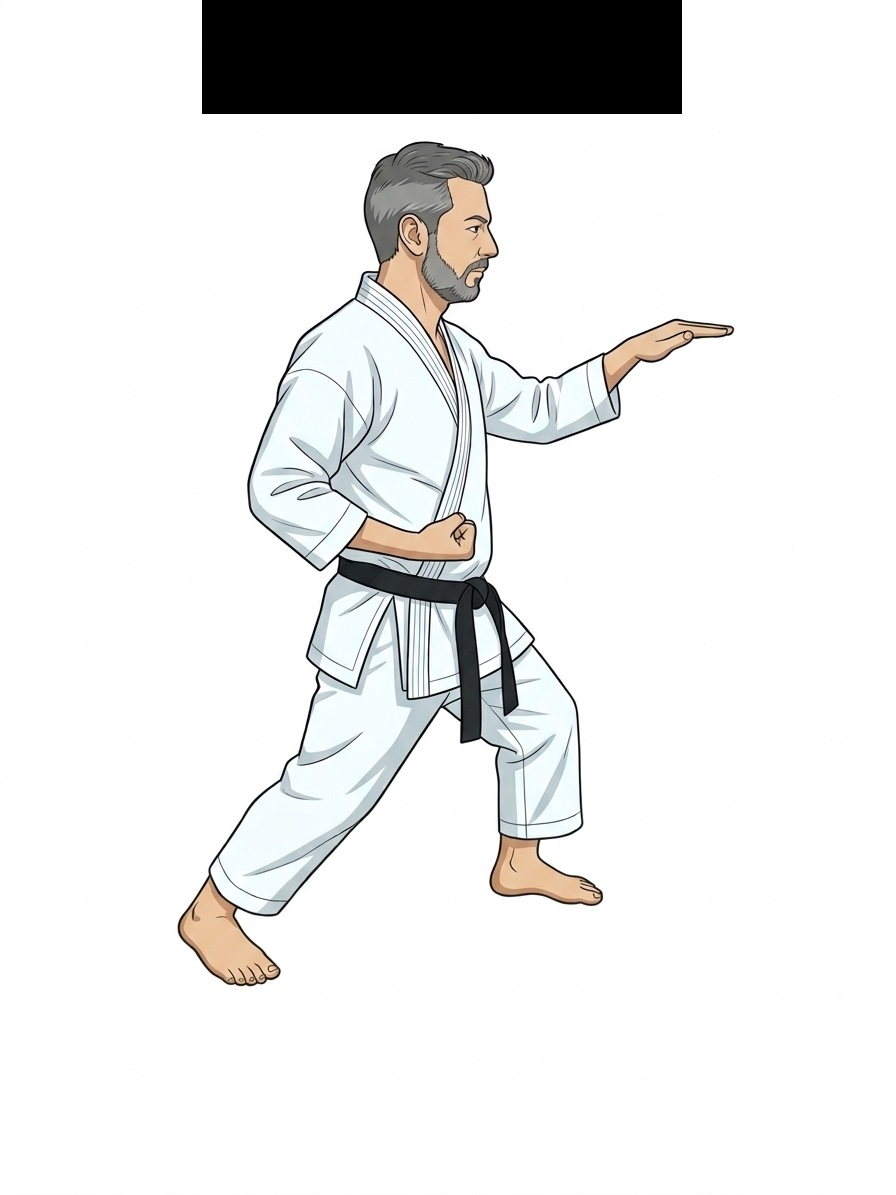
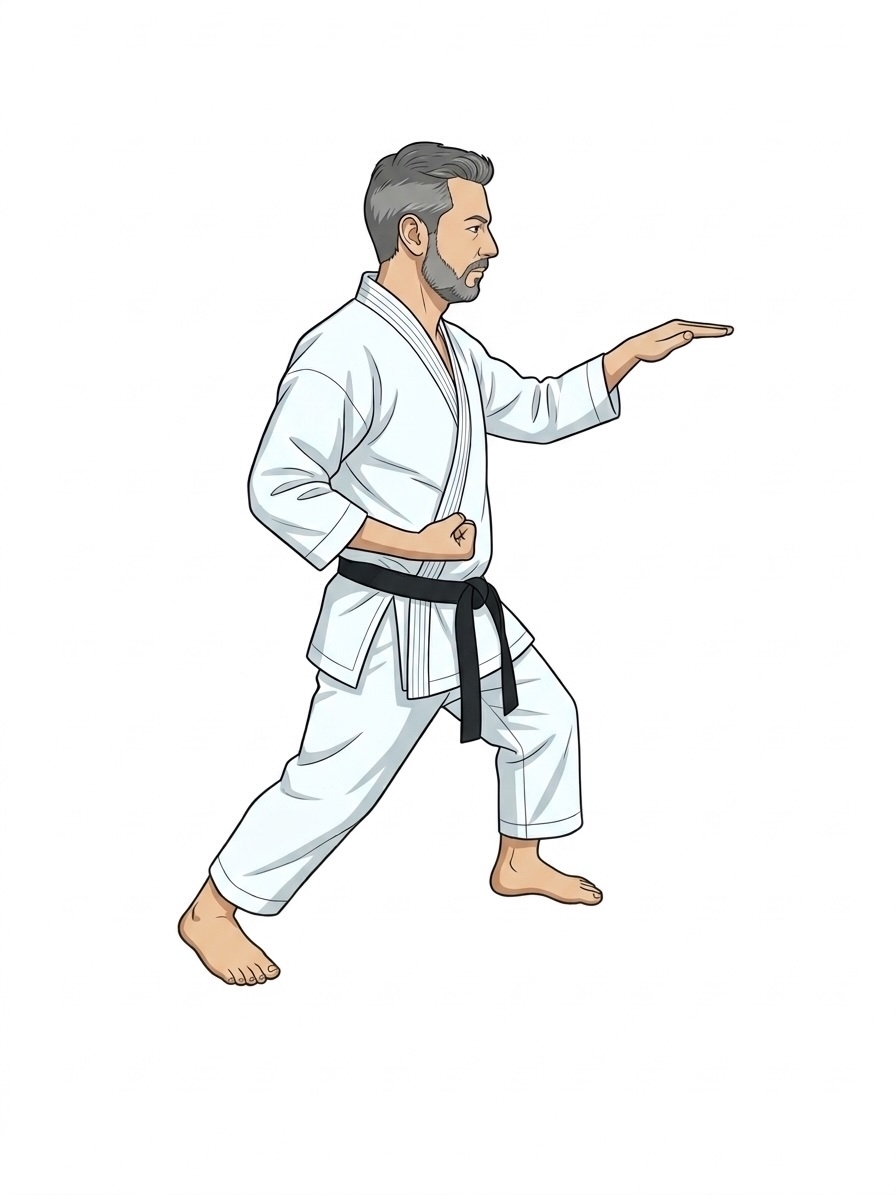
Update kata movements descriptions and trajectories for clarity and accuracy; replace illustrations for KATA_UDE_UKE and KATA_MAWASHI_UDE_UKE to enhance visual consistency.

Changed region(s): [[0.2188, 0.0, 0.7812, 0.0929]]

diff --git a/src/data/kataMovements.ts b/src/data/kataMovements.ts
@@ -337,10 +337,10 @@ export const KATA_UDE_UKE_GROUPS: KataTechniqueGroup[] = [
         sideCode: "hidari",
         stance: "Hidari Zenkutsu-Dachi (Base avançada esquerda)",
         level: "Chudan",
-        trajectory: "Projeção frontal direta na linha média do tórax",
+        trajectory: "Defesa de um ataque MAWASHI-ZUKI (soco circular)",
         contactSurface: "Estrutura frontal do antebraço esquerdo",
         summary:
-          "O antebraço esquerdo avança diretamente na linha central (Mae) formando uma barreira vertical sólida diante do peito para interceptar o ataque de frente.",
+          "O antebraço esquerdo avança diretamente na curva interna do cotovelo do oponente para interceptar o ataque de frente.",
       },
       {
         number: 10,
@@ -350,10 +350,10 @@ export const KATA_UDE_UKE_GROUPS: KataTechniqueGroup[] = [
         sideCode: "migi",
         stance: "Migi Zenkutsu-Dachi (Base avançada direita)",
         level: "Chudan",
-        trajectory: "Projeção frontal direta na linha média do tórax",
+        trajectory: "Defesa de um ataque MAWASHI-ZUKI (soco circular)",
         contactSurface: "Estrutura frontal do antebraço direito",
         summary:
-          "O antebraço direito projeta-se diretamente para a frente protegendo o eixo central com o cotovelo fletido a 90° e punho esquerdo recolhido no quadril.",
+          "O antebraço direito avança diretamente na curva interna do cotovelo do oponente para interceptar o ataque de frente.",
       },
     ],
     steps: [
@@ -365,7 +365,7 @@ export const KATA_UDE_UKE_GROUPS: KataTechniqueGroup[] = [
       {
         stepNumber: 2,
         phaseTitle: "Alinhamento do Antebraço",
-        detail: "O antebraço defensor alinha-se verticalmente no centro do tronco.",
+        detail: "O antebraço defensor alinha-se verticalmente",
       },
       {
         stepNumber: 3,
@@ -375,11 +375,11 @@ export const KATA_UDE_UKE_GROUPS: KataTechniqueGroup[] = [
       {
         stepNumber: 4,
         phaseTitle: "Bloqueio Sólido no Centro",
-        detail: "Antebraço estabilizado na linha média com tração simultânea do hikite.",
+        detail: "Antebraço bloqueia na curva interna do cotovelo do oponente",
       },
     ],
     biomechanicsKeyPoints: [
-      "A força é projetada para a frente a partir da conexão entre a perna de trás, o quadril e a escápula.",
+      "A força é projetada para a frente na curva interna do cotovelo do oponente a partir da conexão entre a perna de trás, o quadril e a escápula.",
       "Impede que o ataque do adversário ganhe velocidade ao interceptá-lo na origem.",
     ],
   },
